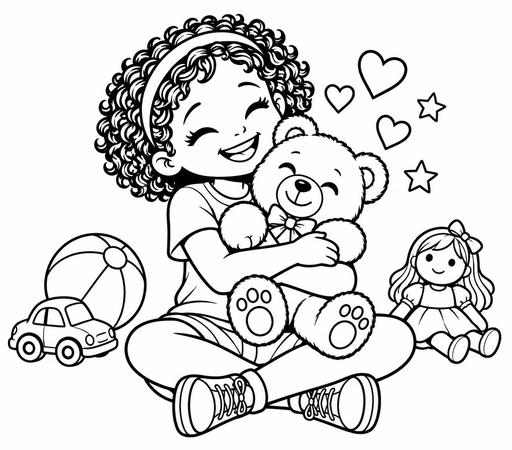
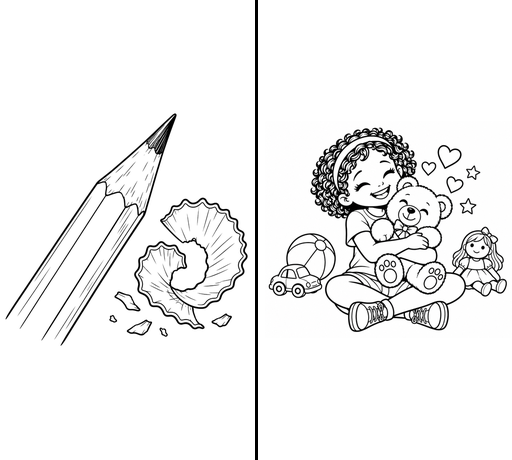
Keep graphite + favorite on the -ite card with a two-panel picture
-ite has two sounds (long "ite" in graphite, short "it" in favorite), so the
card keeps both Wilson words. The picture combines the original graphite
pencil and the new favorite teddy bear. 46 cards now change from the
printed Notebook (was 47).

Claude-Session: https://claude.ai/code/session_01DmzfW66rUsFuAk5yyj3KzU

Changed region(s): [[0.0, 0.0, 1.0, 1.0], [0.25, 0.8089, 0.2812, 0.84]]

diff --git a/tests/word-element-review.test.tsx b/tests/word-element-review.test.tsx
@@ -117,7 +117,7 @@ test('cards 84-158 are verbatim from the affix deck, image paths included', () =
   assert.equal(affixSource.cards.length, 75);
   assert.deepEqual(WORD_ELEMENT_CARDS.slice(83), affixSource.cards);
   assert.equal(affixSource.version, '1.1');
-  assert.deepEqual(affixSource.counts, { rows: 75, forms: 85, prefixRows: 32, suffixRows: 43, teacherChosenExamples: 47 });
+  assert.deepEqual(affixSource.counts, { rows: 75, forms: 85, prefixRows: 32, suffixRows: 43, teacherChosenExamples: 46 });
 });
 
 test('affix v1.1 differs from the printed-Notebook v1.0 only in teacher-chosen examples and meanings', () => {
@@ -140,7 +140,7 @@ test('affix v1.1 differs from the printed-Notebook v1.0 only in teacher-chosen e
     assert.equal(flags.includes('TEACHER_CHOSEN_MEANING'), String(card.id) in MEANING_CHANGES);
     assert.deepEqual(flags.filter(flag => !flag.startsWith('TEACHER_CHOSEN')), before.auditFlags);
   });
-  assert.equal(changedExamples, 47);
+  assert.equal(changedExamples, 46);
 });
 
 test('familiar example words appear on the affix cards that were changed', () => {
@@ -150,6 +150,8 @@ test('familiar example words appear on the affix cards that were changed', () =>
   assert.equal(example('prefix_anti'), 'antifreeze');
   assert.equal(example('suffix_ly'), 'quickly');
   assert.equal(example('suffix_ent'), 'difference, emergency, different');
+  // -ite keeps the Wilson words: the long "ite" in graphite and the short "it" in favorite.
+  assert.equal(example('suffix_ite'), 'graphite, favorite');
 });
 
 // --- Filtering ------------------------------------------------------------

diff --git a/legacy/affixCards.ts b/legacy/affixCards.ts
@@ -1494,7 +1494,7 @@ export const AFFIX_CARDS: readonly WordElementCard[] = [
     ],
     "related": [],
     "meaning": "related to; or a person or thing that is",
-    "example": "favorite",
+    "example": "graphite, favorite",
     "firstTaught": "10.1",
     "notebookSubstep": "10.1",
     "notebookCategory": "Vowel Suffixes (begin with a vowel)",
@@ -1503,11 +1503,10 @@ export const AFFIX_CARDS: readonly WordElementCard[] = [
     "sourcePdfPage": 43,
     "image": "/word-element-mnemonics/suffix_ite.png",
     "sourceStatus": "Wilson Student Notebook Answer Key (element + example word)",
-    "sourceBasis": "Student Notebook row (element + example word); meaning is an accepted standard definition (the Notebook gives none). Example word chosen by the teacher for familiarity (replaces the Notebook example; the printed Notebook example is kept in affix-deck-v1.0.source.json). Teacher-created illustration (ChatGPT, Oct 2026), not Wilson art",
+    "sourceBasis": "Student Notebook row (element + example word); meaning is an accepted standard definition (the Notebook gives none). Teacher-created illustration (ChatGPT, Oct 2026), not Wilson art",
     "auditFlags": [
       "TEACHER_CREATED_ILLUSTRATION",
-      "ACCEPTED_DEFINITION_NOT_WILSON",
-      "TEACHER_CHOSEN_EXAMPLE"
+      "ACCEPTED_DEFINITION_NOT_WILSON"
     ],
     "order": 144
   },
